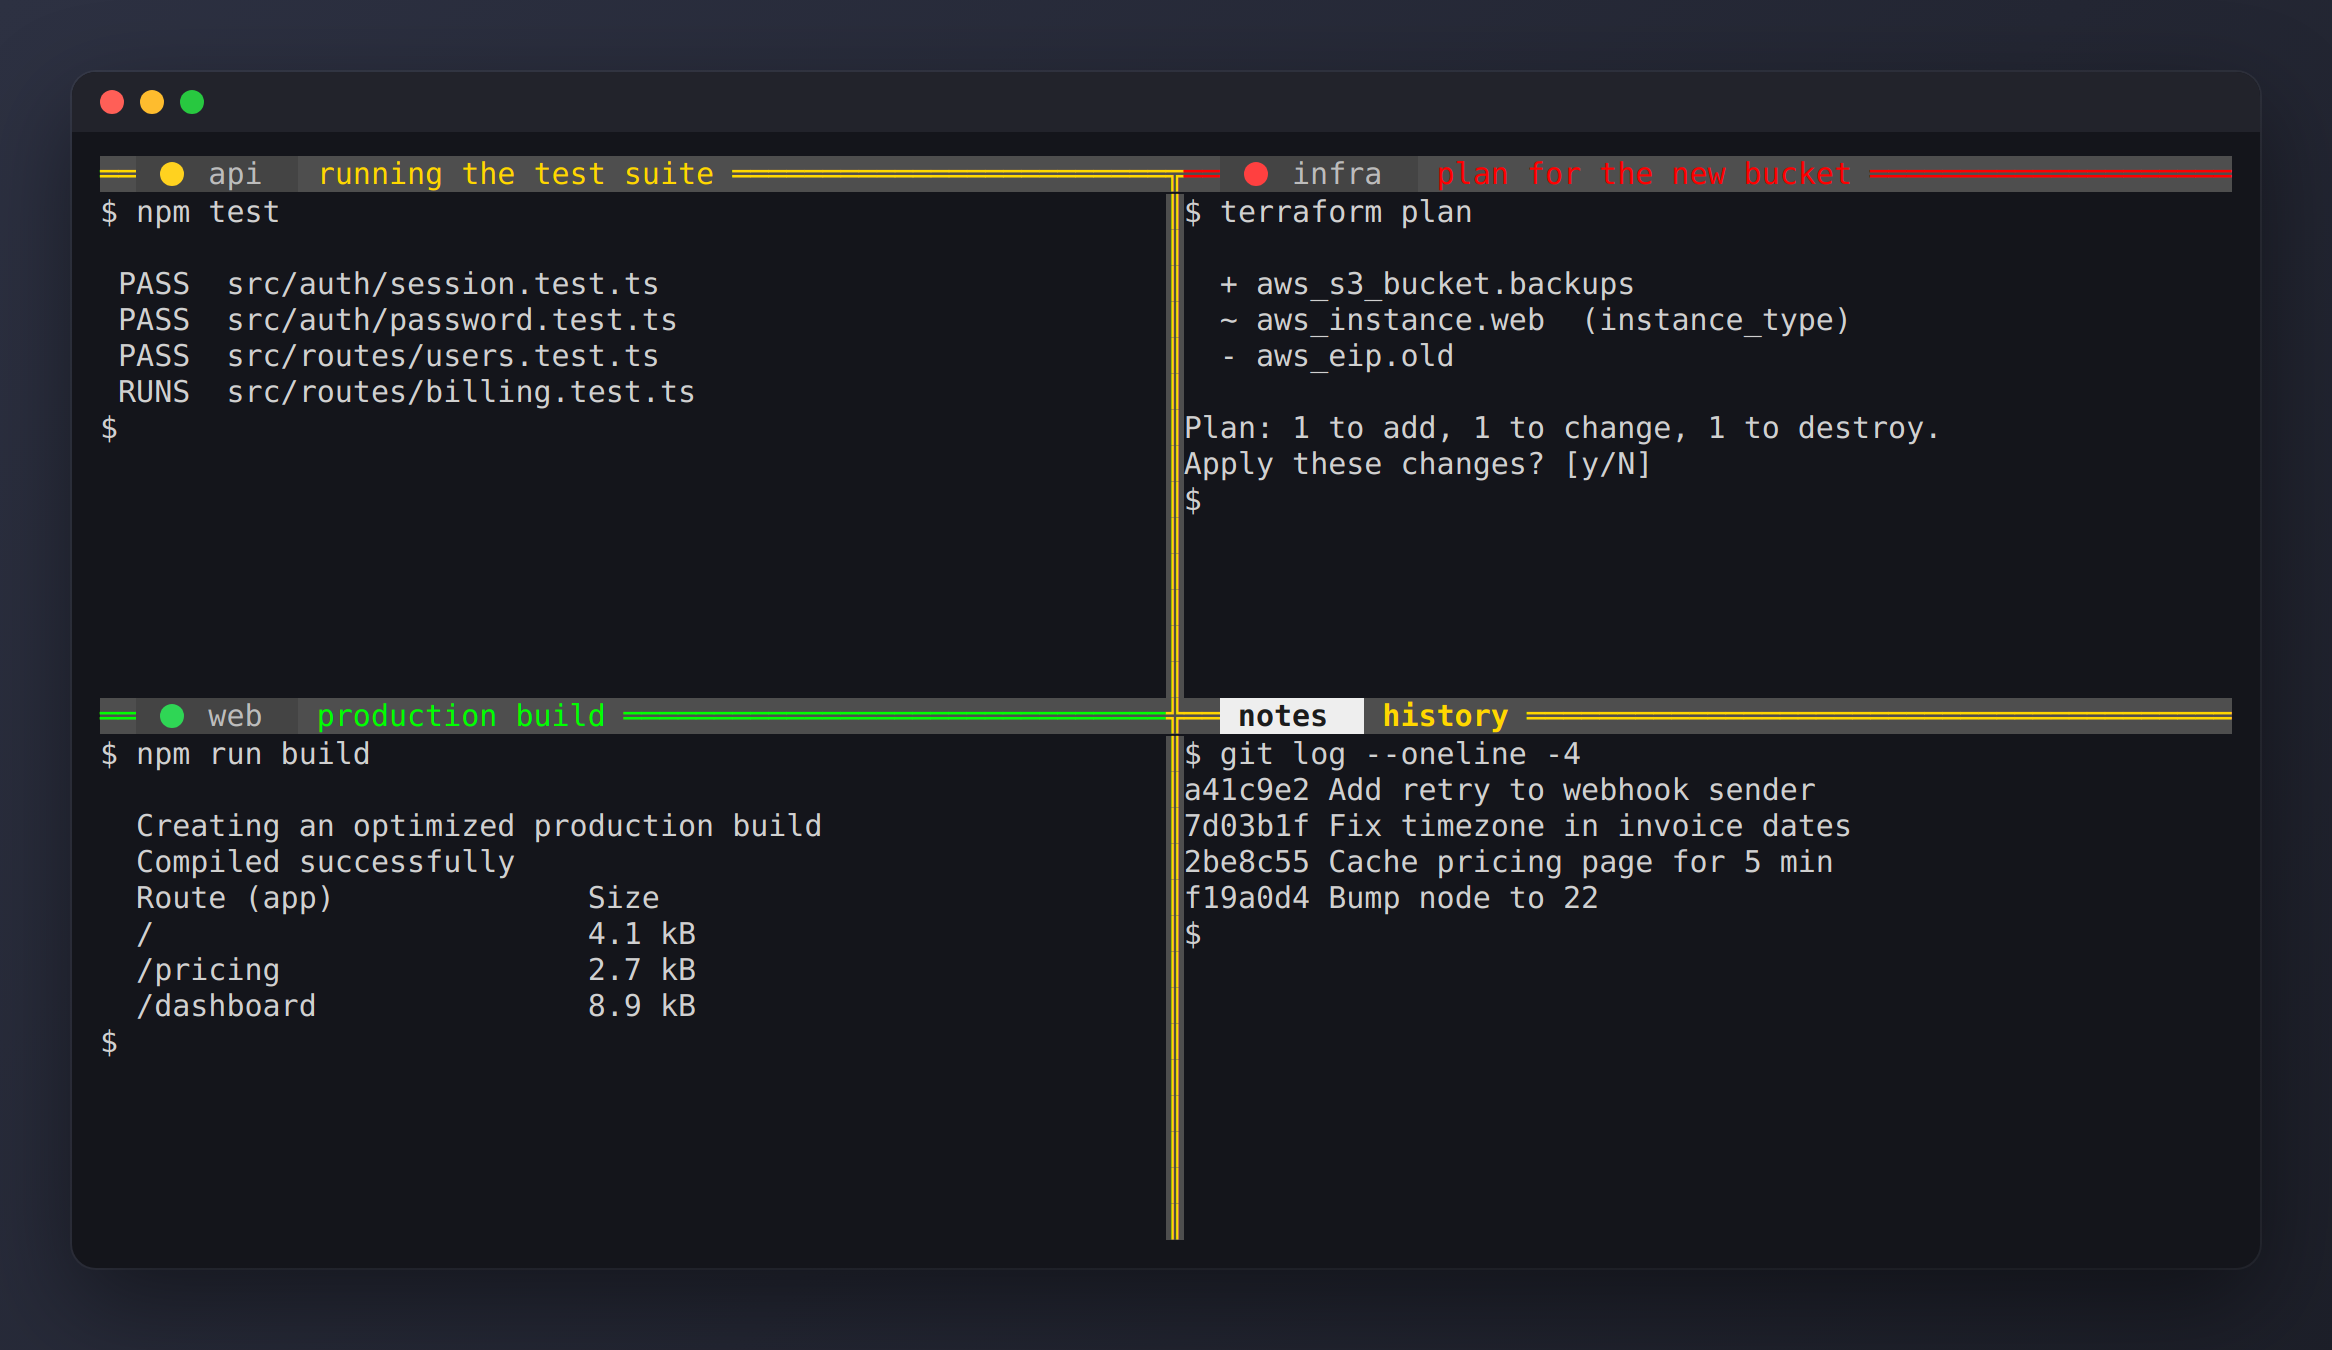
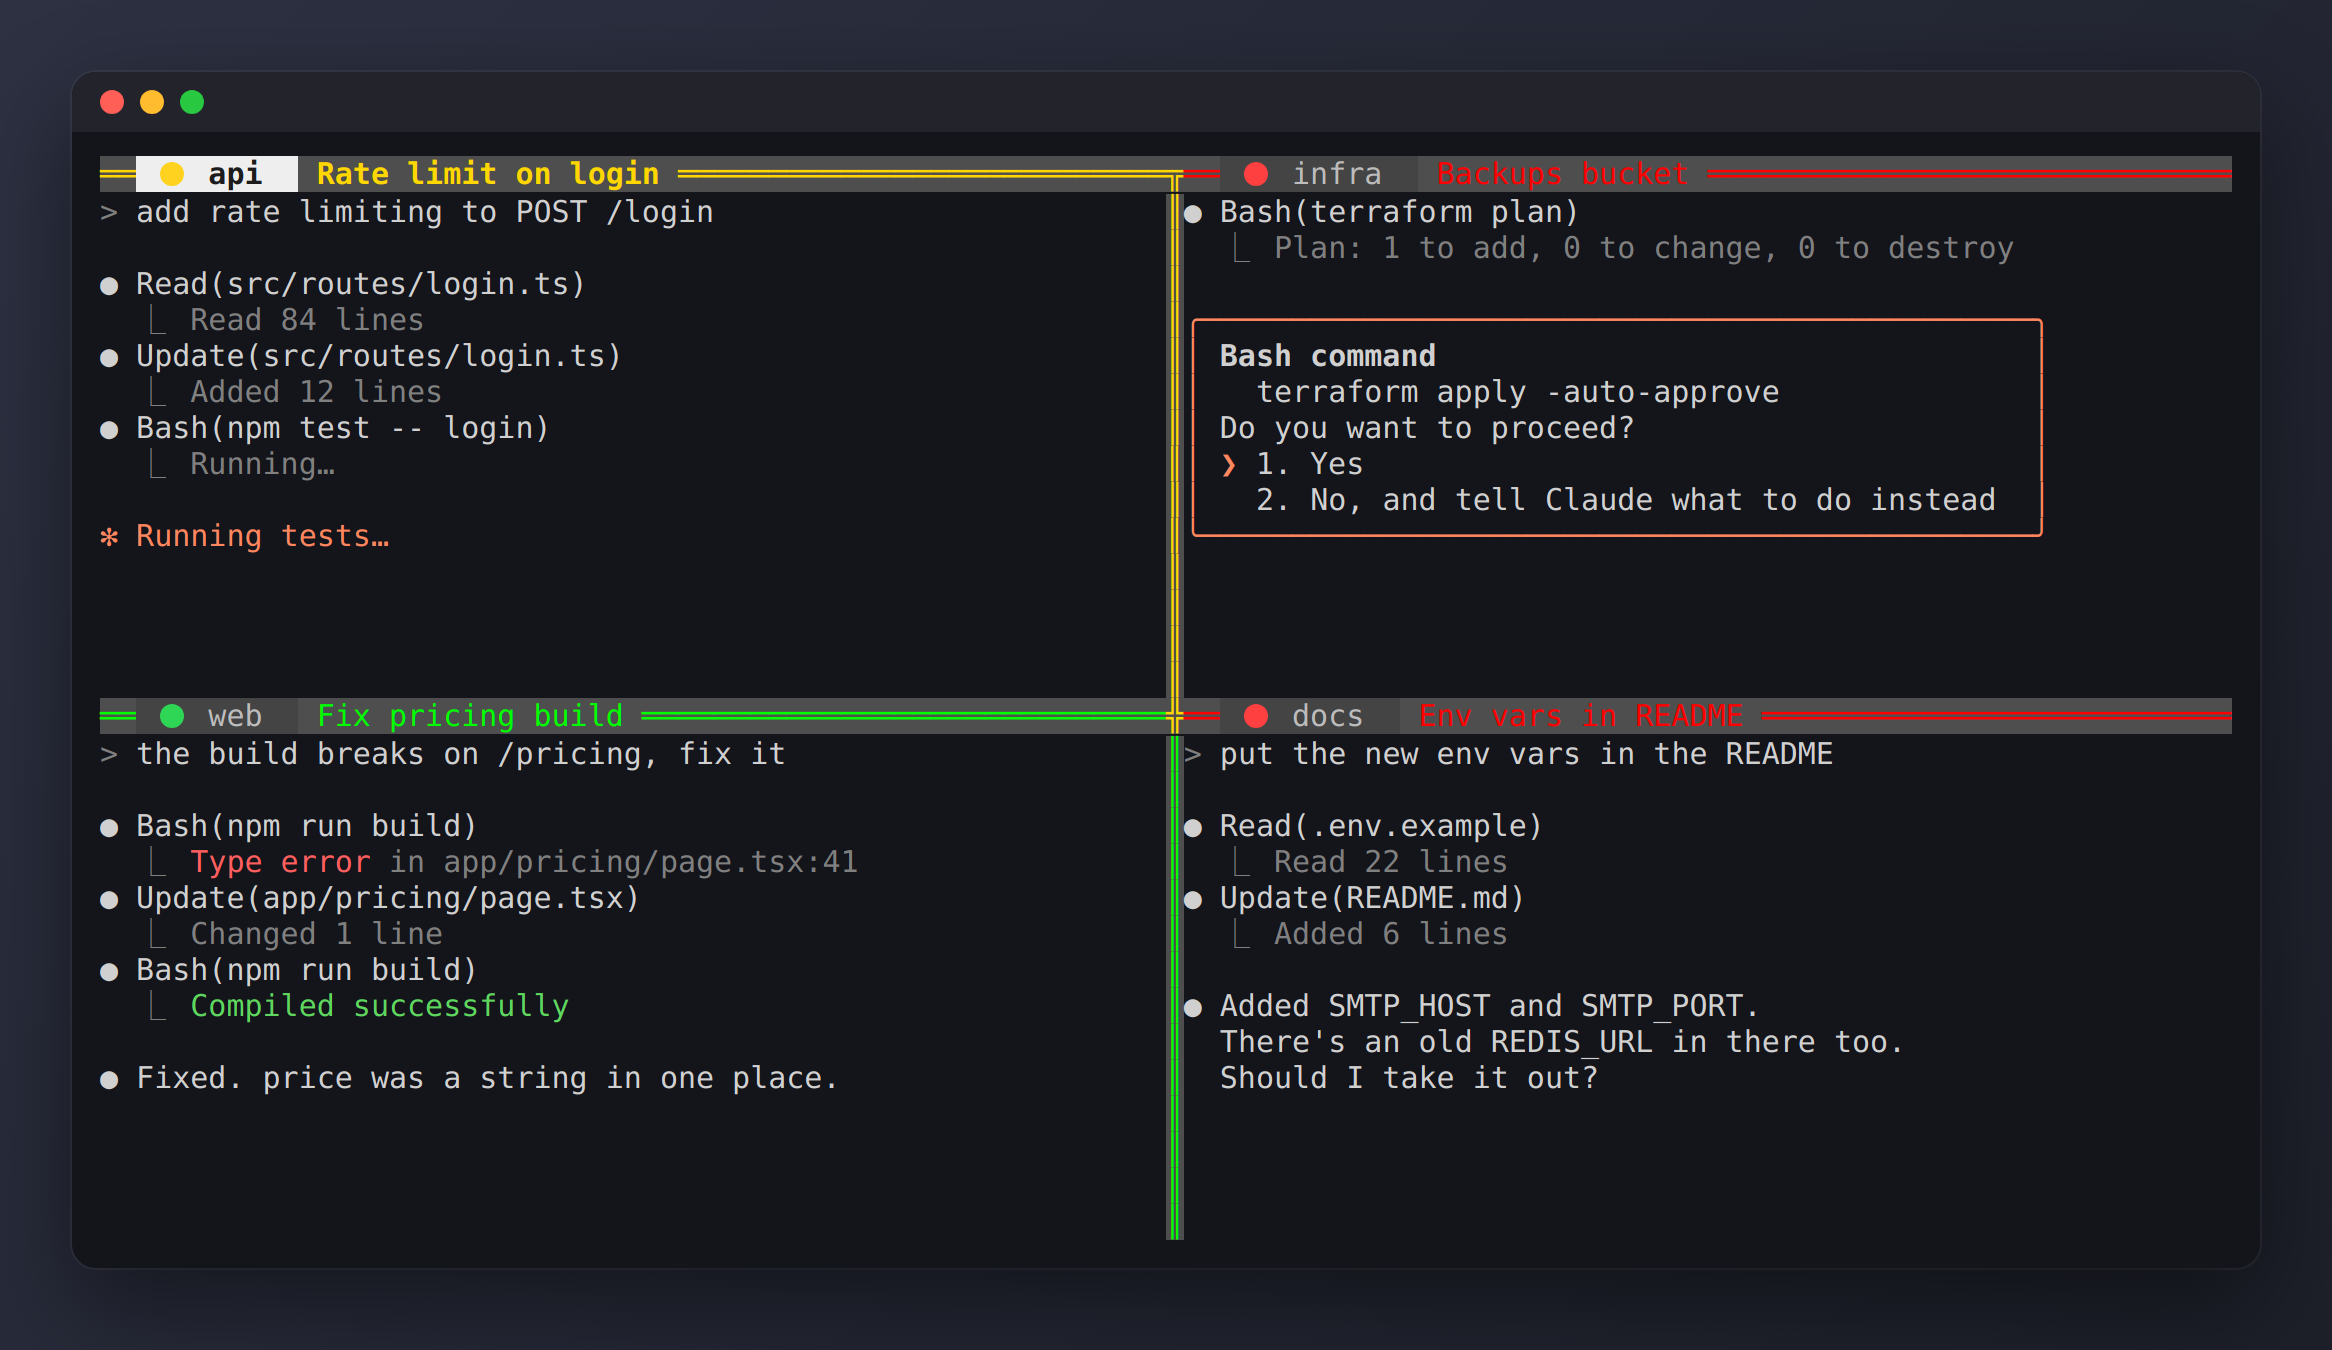
Reescreve o README com o que/por que/pra que/como e refaz o GIF com sessões do Claude Code

diff --git a/scripts/ansi2html.py b/scripts/ansi2html.py
@@ -79,6 +79,9 @@ def convert(text):
             run.append(f'<i class="w"><i class="dot" style="background:{DOTS[ch]}"></i></i>')
         elif wide(ch):
             run.append(f'<i class="w">{html.escape(ch)}</i>')
+        elif ord(ch) > 127 and not 0x2500 <= ord(ch) <= 0x257F:
+            # glyphs missing from the mono font fall back to wider ones; pin them to one cell
+            run.append(f'<i class="n">{html.escape(ch)}</i>')
         else:
             run.append(html.escape(ch))
     flush()
@@ -94,5 +97,6 @@ body{{margin:0;display:inline-block;padding:36px;background:linear-gradient(135d
 pre{{margin:0;padding:12px 14px 14px;font:15px/18px "DejaVu Sans Mono",monospace;color:{DEFAULT_FG}}}
 pre span{{display:inline}}
 .w{{font:inherit;font-style:normal;display:inline-block;width:2ch;text-align:center;vertical-align:top}}
+.n{{font:inherit;font-style:normal;display:inline-block;width:1ch;text-align:center;vertical-align:top;overflow:visible}}
 .dot{{display:inline-block;width:12px;height:12px;border-radius:50%;margin-top:3px}}
 </style><div class="win"><div class="bar"><b style="background:#ff5f57"></b><b style="background:#febc2e"></b><b style="background:#28c840"></b></div><pre>{body}</pre></div>""")

diff --git a/README.pt-BR.md b/README.pt-BR.md
@@ -1,22 +1,22 @@
 # beautify-tmux
 
-Uma config pequena de tmux que coloca um sinal luminoso em cada painel. Eu rodo vários agentes de IA lado a lado pelo SSH e vivia me perdendo: qual ainda estava trabalhando, qual já tinha terminado, qual estava parado esperando eu responder. Agora a borda do painel me avisa.
+Config de tmux que pinta cada painel conforme o que o Claude Code dentro dele está fazendo.
 
-🟡 trabalhando &nbsp; 🟢 terminou &nbsp; 🔴 precisa de você
+🟡 trabalhando &nbsp; 🟢 terminou &nbsp; 🔴 esperando você
 
-![Quatro painéis do tmux, cada um com seu sinal e a borda colorida](docs/demo.gif)
+![Quatro sessões do Claude Code no tmux, cada borda com a cor do estado do agente](docs/demo.gif)
 
 [Read in English](README.md)
 
-## O que faz
+**O que é.** Um `tmux.conf` e um script de hook. Cada painel ganha um sinal na barra de título e a borda fica da mesma cor.
 
-Cada painel ganha uma barra de título com o sinal, a pasta em que está e o título do painel. A borda pega a cor do sinal, então dá pra ver o estado de todos os painéis de longe. Painel sem sinal fica com a borda cinza, e o painel ativo ganha o rótulo branco.
+**Por que.** Eu deixo quatro, cinco agentes do Claude Code abertos no tmux pelo SSH. Um termina, outro para pedindo permissão, e eu só via minutos depois, quando batia o olho naquele painel.
 
-As bordas são linha dupla sobre uma faixa cinza, o que dá um respiro entre os painéis quando a tela está cheia.
+**Pra que.** Olha a tela, vai no painel vermelho, responde. Os verdes estão livres pra próxima tarefa.
 
-Alt + setas troca de painel sem apertar o prefixo.
+**Como.** O Claude Code roda hooks nos eventos dele. O `install.sh --claude` registra três. Cada um chama o `hooks/tmux-light.sh`, que grava uma opção do painel chamada `@light`, e a cor da borda no `tmux.conf` lê essa opção.
 
-É um arquivo só, com dez comandos de tmux. Sem gerenciador de plugin e sem motor de tema.
+A config também põe uma barra de título com a pasta e o título da sessão, borda de linha dupla e Alt + setas pra trocar de painel.
 
 ## Instalar
 
@@ -86,7 +86,7 @@ Remove a linha `source-file` e os hooks do Claude Code que ele colocou. O resto 
 
 ## Como o GIF foi feito
 
-O `scripts/demo.sh` sobe um servidor tmux descartável com esta config, conecta nele a partir de um segundo servidor descartável e captura a tela quadro a quadro. Os quadros passam por um conversor pequeno de ANSI pra HTML, o Playwright tira os prints e o ffmpeg junta o GIF. Ou seja, o GIF lá em cima é a config de verdade, não uma montagem.
+O `scripts/demo.sh` roda este `tmux.conf` num servidor tmux descartável e chama o `hooks/tmux-light.sh` do mesmo jeito que o Claude Code chama, com o mesmo JSON na entrada. O texto dos agentes nos painéis é roteirizado. O Playwright e o ffmpeg transformam as capturas no GIF.
 
 ## Licença
 

diff --git a/README.md b/README.md
@@ -1,22 +1,22 @@
 # beautify-tmux
 
-A small tmux config that puts a status light on every pane. I run several AI coding agents side by side over SSH, and I kept losing track of which one was still working, which one had finished, and which one was sitting there waiting for me to answer. Now the pane border tells me.
+tmux config that colours each pane by what the Claude Code session inside it is doing.
 
-🟡 busy &nbsp; 🟢 done &nbsp; 🔴 needs you
+🟡 working &nbsp; 🟢 finished &nbsp; 🔴 waiting for you
 
-![Four tmux panes, each with its own status light and coloured border](docs/demo.gif)
+![Four Claude Code sessions in tmux, each pane border coloured by the agent's state](docs/demo.gif)
 
 [Leia em português](README.pt-BR.md)
 
-## What it does
+**What.** A `tmux.conf` and a hook script. Each pane gets a light in its title bar, and the border turns the same colour.
 
-Every pane gets a title bar with the light, the folder it's in, and the pane title. The border takes the colour of the light, so you can see the state of every pane from across the room. Panes with no light keep a grey border, and the active pane gets a white label.
+**Why.** I keep four or five Claude Code agents open in tmux over SSH. One finishes, another stops to ask for permission, and I'd only notice minutes later when I happened to look at that pane.
 
-Borders are drawn with double lines over a grey strip, which gives panes some breathing room on a crowded screen.
+**What for.** Look at the screen, go to the red pane, answer it. Green panes are free for the next task.
 
-Alt + arrow keys move between panes without the prefix.
+**How.** Claude Code runs hooks on its own events. `install.sh --claude` registers three of them. Each one calls `hooks/tmux-light.sh`, which sets a pane option called `@light`, and the border colour in `tmux.conf` reads that option.
 
-It is one file with ten tmux commands in it. No plugin manager, no theme engine.
+The config also adds a title bar with the folder and the session title, double-line borders, and Alt + arrows to move between panes.
 
 ## Install
 
@@ -86,7 +86,7 @@ It removes the `source-file` line and the Claude Code hooks it added. The rest o
 
 ## How the demo was made
 
-`scripts/demo.sh` starts a throwaway tmux server with this config, attaches to it from a second throwaway server, and captures the screen frame by frame. The frames go through a small ANSI-to-HTML converter, Playwright takes the screenshots, and ffmpeg stitches the GIF. So the GIF above is the actual config, not a mockup.
+`scripts/demo.sh` runs this `tmux.conf` in a throwaway tmux server and calls `hooks/tmux-light.sh` the same way Claude Code does, with the same JSON on stdin. The agent output in the panes is scripted text. Playwright and ffmpeg turn the captured screens into the GIF.
 
 ## License
 
